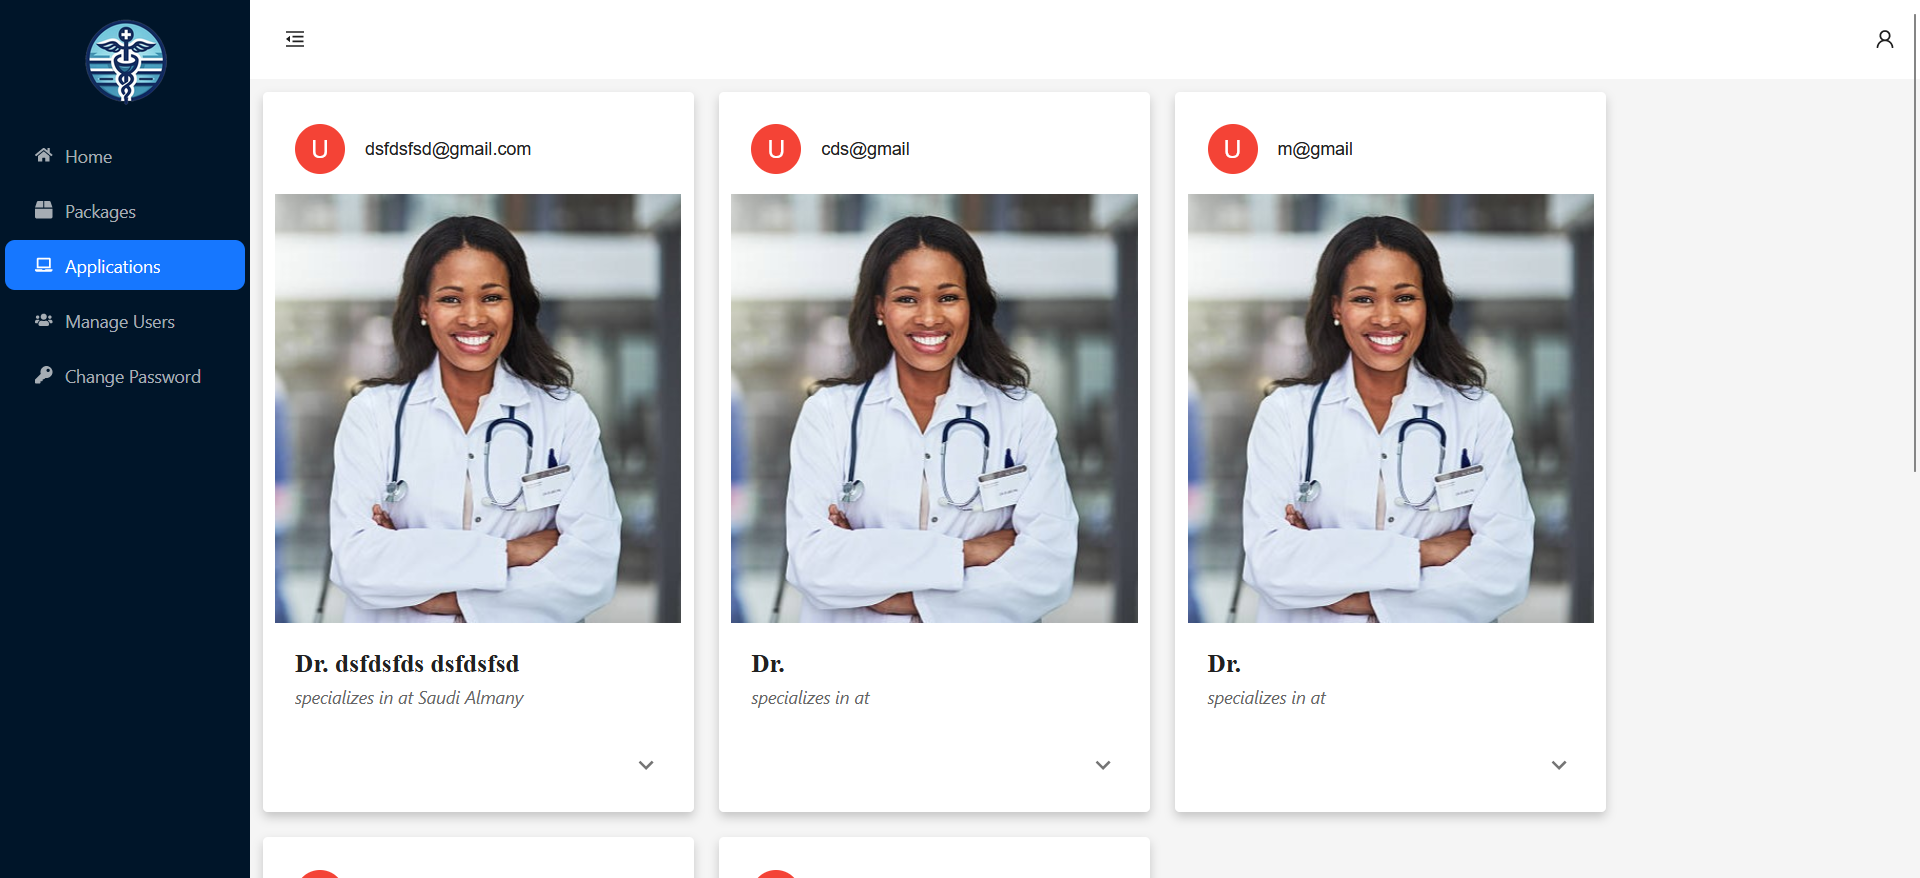
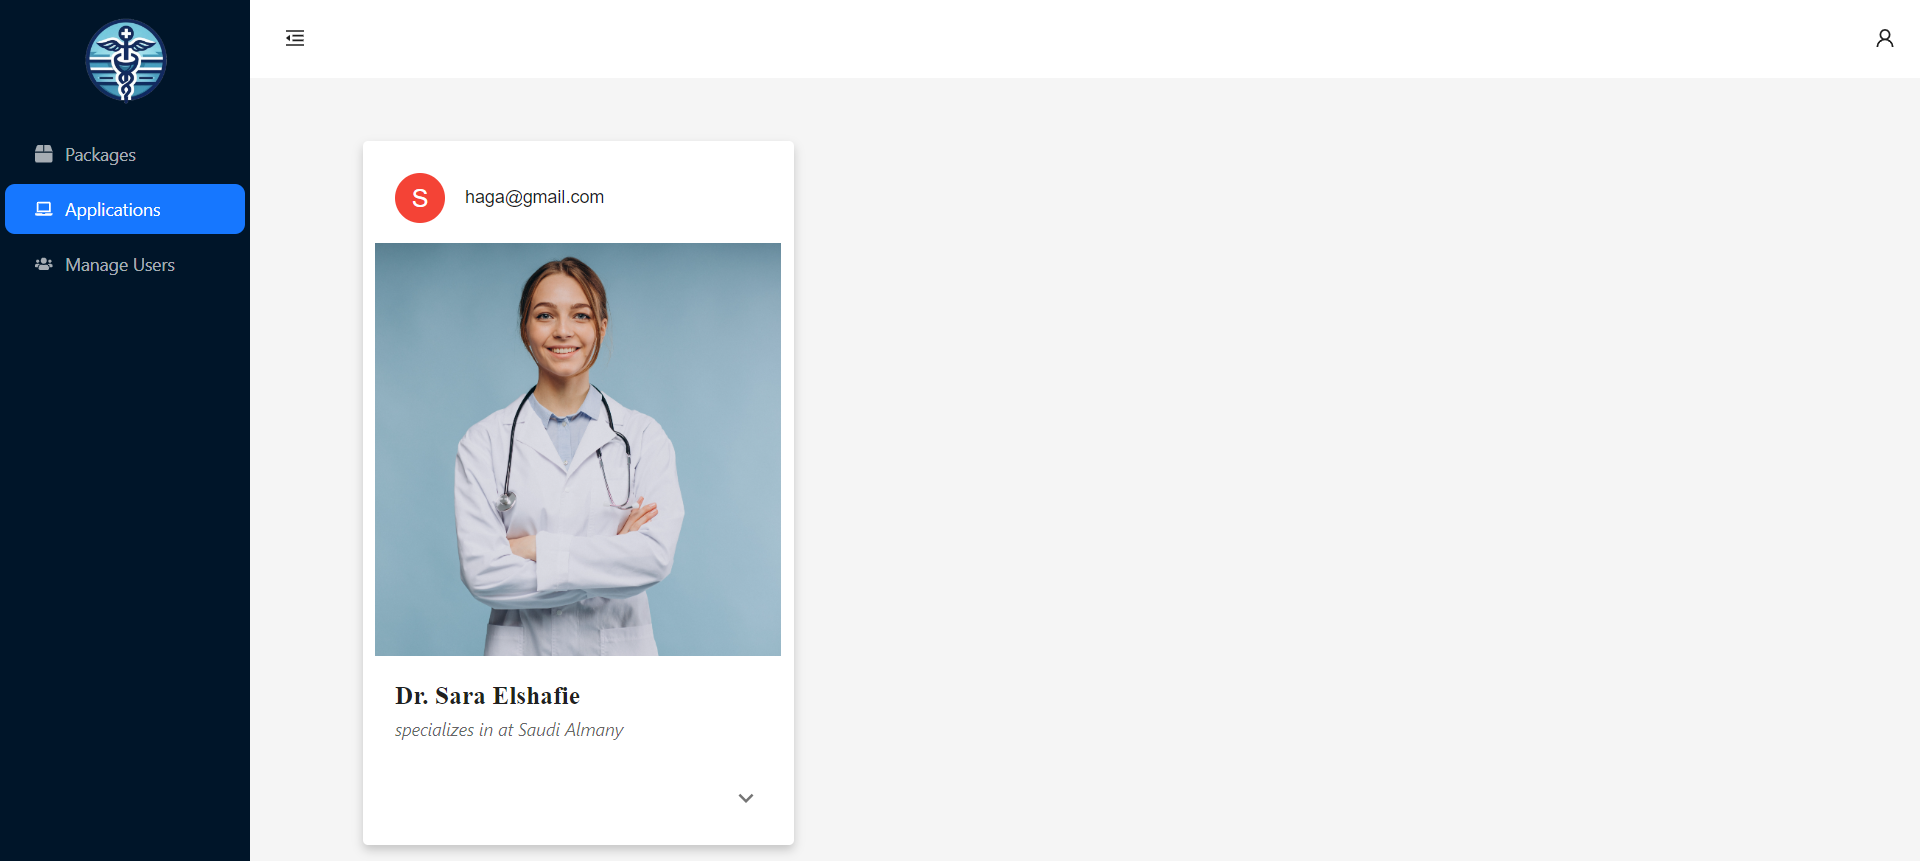
admin  screenshots fixed

diff --git a/client/src/admin/components/ApplicationCards.jsx b/client/src/admin/components/ApplicationCards.jsx
@@ -10,7 +10,7 @@ import IconButton from "@mui/material/IconButton";
 import Typography from "@mui/material/Typography";
 import { red } from "@mui/material/colors";
 import ExpandMoreIcon from "@mui/icons-material/ExpandMore";
-import doctorPic from "../../shared/assets/doctor-pic.jpg";
+import doctorPic from "../../shared/assets/woman-doctor.jpg";
 import { Button } from "@mui/material";
 import { Link } from "react-router-dom";
 import { useHandleApplicationMutation } from "../../store";
@@ -94,7 +94,7 @@ export default function ApplicationCard({ data }) {
       <CardHeader
         avatar={
           <Avatar sx={{ bgcolor: red[500] }} aria-label="recipe">
-            U
+            {data.name[0]}
           </Avatar>
         }
         title={data.email}

diff --git a/README.md b/README.md
@@ -123,6 +123,7 @@ Patient
 </summary>
 <img width="1000" alt="login" src="./screenshots/admin/applications.png">
 <img width="1000" alt="login" src="./screenshots/admin/packages.png">
+<img width="1000" alt="login" src="./screenshots/admin/manage_users.png">
 </details>
 
 ## Tech Stack
